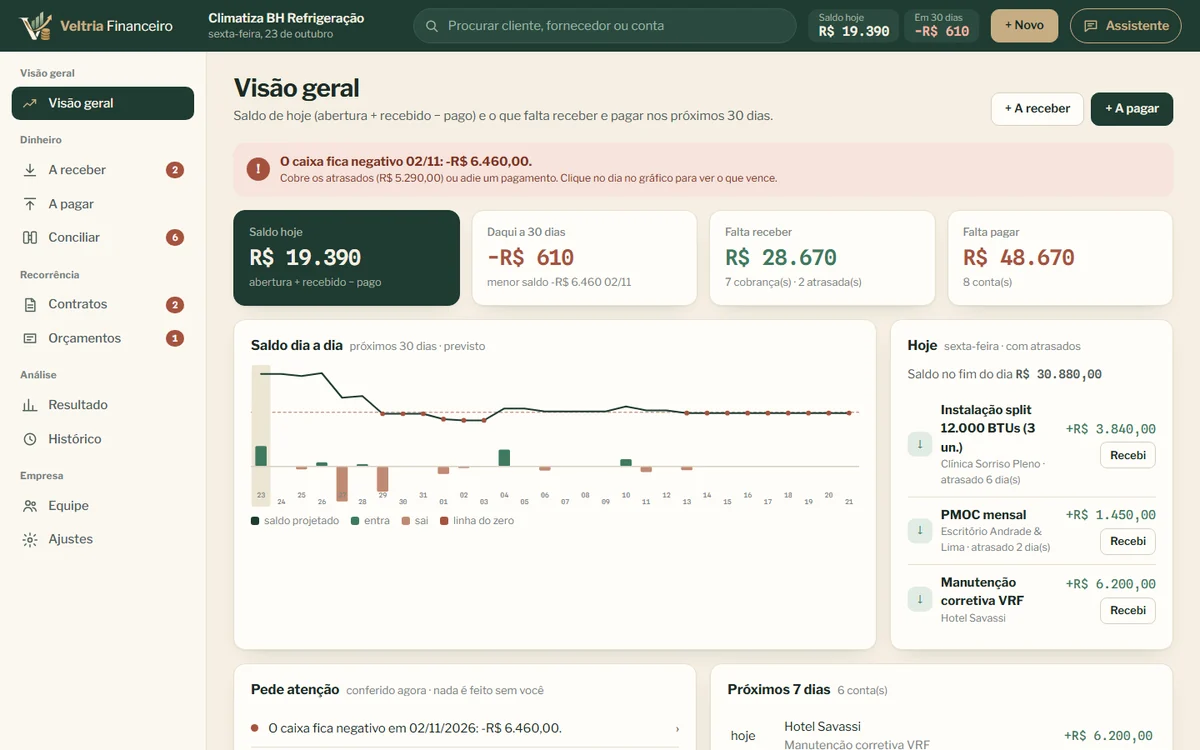
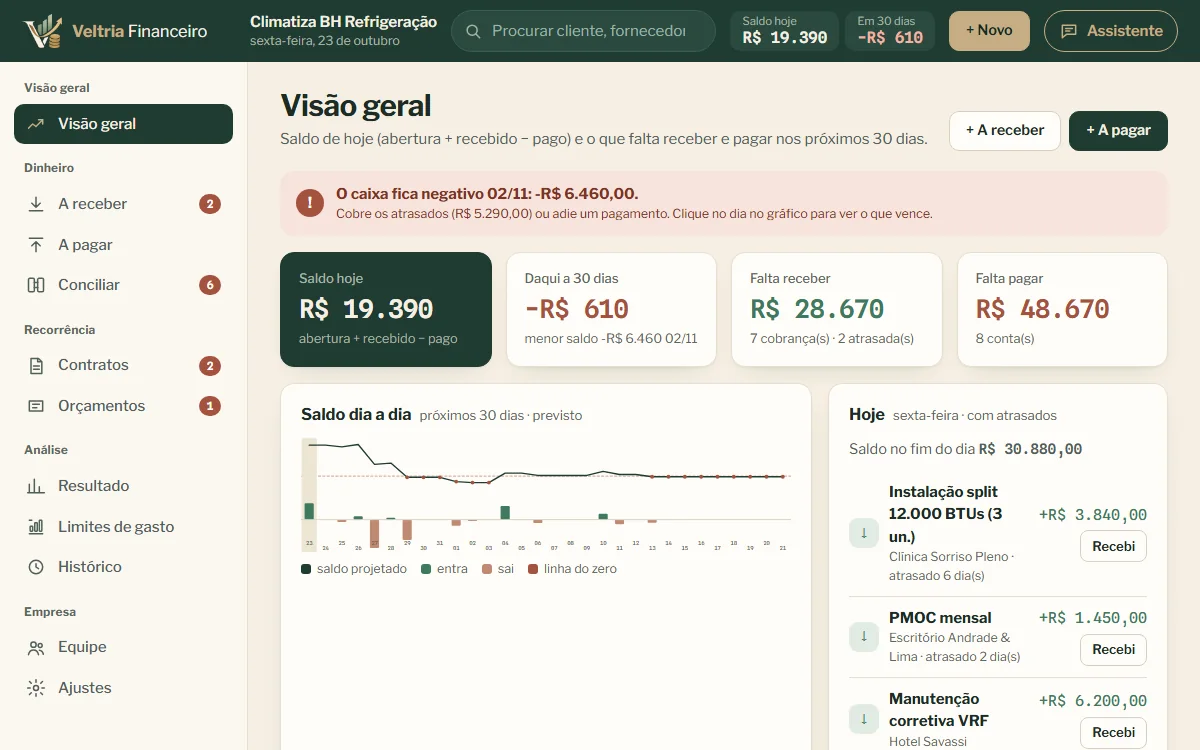
Site: fotos novas do Veltria Financeiro e textos com as funções novas

diff --git a/veltria-financeiro.html b/veltria-financeiro.html
@@ -38,7 +38,7 @@
 <script src="js/videos.js?v=10" defer></script>
 <script src="js/versao.js?v=1" defer></script>
 <script src="js/conta.js?v=9" defer></script>
-<script type="application/ld+json">[{"@context": "https://schema.org", "@type": "SoftwareApplication", "name": "Veltria Financeiro", "applicationCategory": "BusinessApplication", "operatingSystem": "Web, Android, iOS (navegador)", "description": "Contas a pagar e a receber, fluxo de caixa projetado, DRE e conciliação com o banco. E ordem de serviço que já vira receita.", "url": "https://bluerose-store.com/veltria-financeiro.html", "image": "https://bluerose-store.com/img/sistemas/financeiro-completo.webp?v=4", "offers": [{"@type": "Offer", "price": "109", "priceCurrency": "BRL", "name": "Assinatura mensal"}], "publisher": {"@type": "Organization", "name": "Blue Rose Express", "url": "https://bluerose-store.com/"}}, {"@context": "https://schema.org", "@type": "FAQPage", "mainEntity": [{"@type": "Question", "name": "Substitui o contador?", "acceptedAnswer": {"@type": "Answer", "text": "Não. É o controle gerencial da empresa. O contador continua cuidando de impostos e obrigações, e pode receber os relatórios."}}, {"@type": "Question", "name": "Importa extrato do banco?", "acceptedAnswer": {"@type": "Answer", "text": "Sim, por arquivo CSV (data; descrição; valor), que todos os bancos exportam."}}, {"@type": "Question", "name": "Tem ordem de serviço?", "acceptedAnswer": {"@type": "Answer", "text": "Sim, com orçamento, aprovação, laudo, impressão e faturamento direto para o contas a receber."}}, {"@type": "Question", "name": "Como funciona o teste de 7 dias?", "acceptedAnswer": {"@type": "Answer", "text": "Crie a conta e use por 7 dias sem pagar e sem cartão. Se gostar, assine e os dados continuam; se não, nada é cobrado."}}]}, {"@context": "https://schema.org", "@type": "BreadcrumbList", "itemListElement": [{"@type": "ListItem", "position": 1, "name": "Início", "item": "https://bluerose-store.com/"}, {"@type": "ListItem", "position": 2, "name": "Sistemas", "item": "https://bluerose-store.com/sistemas.html"}, {"@type": "ListItem", "position": 3, "name": "Veltria Financeiro", "item": "https://bluerose-store.com/veltria-financeiro.html"}]}]</script>
+<script type="application/ld+json">[{"@context": "https://schema.org", "@type": "SoftwareApplication", "name": "Veltria Financeiro", "applicationCategory": "BusinessApplication", "operatingSystem": "Web, Android, iOS (navegador)", "description": "Contas a pagar e a receber, fluxo de caixa projetado, DRE e conciliação com o banco. E ordem de serviço que já vira receita.", "url": "https://bluerose-store.com/veltria-financeiro.html", "image": "https://bluerose-store.com/img/sistemas/financeiro-completo.webp?v=5", "offers": [{"@type": "Offer", "price": "109", "priceCurrency": "BRL", "name": "Assinatura mensal"}], "publisher": {"@type": "Organization", "name": "Blue Rose Express", "url": "https://bluerose-store.com/"}}, {"@context": "https://schema.org", "@type": "FAQPage", "mainEntity": [{"@type": "Question", "name": "Substitui o contador?", "acceptedAnswer": {"@type": "Answer", "text": "Não. É o controle gerencial da empresa. O contador continua cuidando de impostos e obrigações, e pode receber os relatórios."}}, {"@type": "Question", "name": "Importa extrato do banco?", "acceptedAnswer": {"@type": "Answer", "text": "Sim, por arquivo CSV (data; descrição; valor), que todos os bancos exportam."}}, {"@type": "Question", "name": "Tem ordem de serviço?", "acceptedAnswer": {"@type": "Answer", "text": "Sim, com orçamento, aprovação, laudo, impressão e faturamento direto para o contas a receber."}}, {"@type": "Question", "name": "Como funciona o teste de 7 dias?", "acceptedAnswer": {"@type": "Answer", "text": "Crie a conta e use por 7 dias sem pagar e sem cartão. Se gostar, assine e os dados continuam; se não, nada é cobrado."}}]}, {"@context": "https://schema.org", "@type": "BreadcrumbList", "itemListElement": [{"@type": "ListItem", "position": 1, "name": "Início", "item": "https://bluerose-store.com/"}, {"@type": "ListItem", "position": 2, "name": "Sistemas", "item": "https://bluerose-store.com/sistemas.html"}, {"@type": "ListItem", "position": 3, "name": "Veltria Financeiro", "item": "https://bluerose-store.com/veltria-financeiro.html"}]}]</script>
 <link rel="stylesheet" href="css/assistente.css?v=7">
 <script src="js/assistente.js?v=20" defer></script>
 <script src="js/cookies.js?v=2" defer></script>
@@ -74,10 +74,10 @@
       <div class="np-cta"><a class="btn btn-primary" href="app/financeirocompleto/" data-teste="financeirocompleto" data-teste-nome="Veltria Financeiro Completo" data-teste-mensal="109">Testar 7 dias grátis</a><a class="btn btn-ghost" href="#versoes">Ver as 3 versões</a></div>
       <p class="np-nota">7 dias grátis em qualquer versão, sem cartão: nada é cobrado no teste. Depois, a partir de <b>R$&nbsp;59/mês</b> (Essencial), sem fidelidade.</p>
     </div>
-    <div class="np-video"><a href="demos/sistemas/financeiro-completo/" target="_blank" rel="noopener"><img src="img/sistemas/financeiro-completo.webp?v=4" width="1200" height="750" alt="Tela do Veltria Financeiro Completo"></a><p>Veltria Financeiro Completo · clique para abrir a demonstração</p></div>
+    <div class="np-video"><a href="demos/sistemas/financeiro-completo/" target="_blank" rel="noopener"><img src="img/sistemas/financeiro-completo.webp?v=5" width="1200" height="750" alt="Tela do Veltria Financeiro Completo"></a><p>Veltria Financeiro Completo · clique para abrir a demonstração</p></div>
   </section>
   <section class="np-dores wrap"><h2 class="sec-title">O que ele resolve</h2><div class="np-tres"><div><span class="np-num">01</span><p>Não saber se vai faltar dinheiro no fim do mês</p></div><div><span class="np-num">02</span><p>Clientes atrasados que ninguém cobra</p></div><div><span class="np-num">03</span><p>Extrato do banco que nunca bate com a planilha</p></div></div></section>
-  <section class="vs wrap" id="versoes"><h2 class="sec-title">Escolha a sua versão</h2><p class="vs-intro">Três sistemas diferentes, cada um feito para um tamanho de negócio. Todos com 7 dias grátis, sem cartão, Assistente IA e equipe com login de cada pessoa.</p><div class="vs-grade"><article class="vs-card"><span class="vs-chip">App para celular</span><h3 class="vs-nome">Essencial</h3><p class="vs-para">Autônomo e MEI</p><p class="vs-preco"><span>R$</span><b>59</b><span>/mês</span></p><p class="vs-ano">ou R$&nbsp;566 por ano, 20% a menos</p><ul class="vs-lista"><li><svg class="ico" aria-hidden="true"><use href="img/icones.svg#i-check"/></svg><span>Tudo que entra dividido em potes</span></li><li><svg class="ico" aria-hidden="true"><use href="img/icones.svg#i-check"/></svg><span>Cobrança com PIX e lembrete no WhatsApp</span></li><li><svg class="ico" aria-hidden="true"><use href="img/icones.svg#i-check"/></svg><span>Limite do MEI e DAS à vista</span></li><li><svg class="ico" aria-hidden="true"><use href="img/icones.svg#i-check"/></svg><span>Recibo na hora e contas fixas</span></li><li><svg class="ico" aria-hidden="true"><use href="img/icones.svg#i-check"/></svg><span>Minha assinatura dentro do app</span></li></ul><div class="vs-bts"><a class="btn btn-primary" href="app/financeiroessencial/" data-teste="financeiroessencial" data-teste-nome="Veltria Financeiro Essencial" data-teste-mensal="59">Testar 7 dias grátis</a><a class="vs-demo" href="demos/sistemas/financeiro-essencial/?celular=1" target="_blank" rel="noopener">Ver a demonstração</a></div></article><article class="vs-card vs-destaque"><span class="vs-chip">O mais escolhido</span><h3 class="vs-nome">Completo</h3><p class="vs-para">Pequena empresa de serviços</p><p class="vs-preco"><span>R$</span><b>109</b><span>/mês</span></p><p class="vs-ano">ou R$&nbsp;1.046 por ano, 20% a menos</p><ul class="vs-lista"><li><svg class="ico" aria-hidden="true"><use href="img/icones.svg#i-check"/></svg><span>Os próximos 30 dias com o saldo projetado</span></li><li><svg class="ico" aria-hidden="true"><use href="img/icones.svg#i-check"/></svg><span>A receber com régua de cobrança e a pagar</span></li><li><svg class="ico" aria-hidden="true"><use href="img/icones.svg#i-check"/></svg><span>Conciliação com o extrato do banco</span></li><li><svg class="ico" aria-hidden="true"><use href="img/icones.svg#i-check"/></svg><span>Contratos recorrentes e orçamentos</span></li><li><svg class="ico" aria-hidden="true"><use href="img/icones.svg#i-check"/></svg><span>Resultado com imposto estimado</span></li></ul><div class="vs-bts"><a class="btn btn-primary" href="app/financeirocompleto/" data-teste="financeirocompleto" data-teste-nome="Veltria Financeiro Completo" data-teste-mensal="109">Testar 7 dias grátis</a><a class="vs-demo" href="demos/sistemas/financeiro-completo/" target="_blank" rel="noopener">Ver a demonstração</a></div></article><article class="vs-card"><span class="vs-chip">Para quem quer tudo</span><h3 class="vs-nome">Avançado</h3><p class="vs-para">Grupo de empresas e BPO financeiro</p><p class="vs-preco"><span>R$</span><b>249</b><span>/mês</span></p><p class="vs-ano">ou R$&nbsp;2.390 por ano, 20% a menos</p><ul class="vs-lista"><li><svg class="ico" aria-hidden="true"><use href="img/icones.svg#i-check"/></svg><span>Caixa de 13 semanas com cenários</span></li><li><svg class="ico" aria-hidden="true"><use href="img/icones.svg#i-check"/></svg><span>Orçado x real</span></li><li><svg class="ico" aria-hidden="true"><use href="img/icones.svg#i-check"/></svg><span>Aprovação por alçada com remessa ao banco</span></li><li><svg class="ico" aria-hidden="true"><use href="img/icones.svg#i-check"/></svg><span>Conciliação por regras e fechamento do mês</span></li><li><svg class="ico" aria-hidden="true"><use href="img/icones.svg#i-check"/></svg><span>Rateio e consolidado do grupo</span></li></ul><div class="vs-bts"><a class="btn btn-primary" href="app/financeiroavancado/" data-teste="financeiroavancado" data-teste-nome="Veltria Financeiro Avançado" data-teste-mensal="249">Testar 7 dias grátis</a><a class="vs-demo" href="demos/sistemas/financeiro-avancado/" target="_blank" rel="noopener">Ver a demonstração</a></div></article></div></section>
+  <section class="vs wrap" id="versoes"><h2 class="sec-title">Escolha a sua versão</h2><p class="vs-intro">Três sistemas diferentes, cada um feito para um tamanho de negócio. Todos com 7 dias grátis, sem cartão, Assistente IA e equipe com login de cada pessoa.</p><div class="vs-grade"><article class="vs-card"><span class="vs-chip">App para celular</span><h3 class="vs-nome">Essencial</h3><p class="vs-para">Autônomo e MEI</p><p class="vs-preco"><span>R$</span><b>59</b><span>/mês</span></p><p class="vs-ano">ou R$&nbsp;566 por ano, 20% a menos</p><ul class="vs-lista"><li><svg class="ico" aria-hidden="true"><use href="img/icones.svg#i-check"/></svg><span>Tudo que entra dividido em potes</span></li><li><svg class="ico" aria-hidden="true"><use href="img/icones.svg#i-check"/></svg><span>Cobrança com PIX e lembrete no WhatsApp</span></li><li><svg class="ico" aria-hidden="true"><use href="img/icones.svg#i-check"/></svg><span>Limite do MEI e DAS à vista</span></li><li><svg class="ico" aria-hidden="true"><use href="img/icones.svg#i-check"/></svg><span>Contas fixas da semana, do mês ou do ano</span></li><li><svg class="ico" aria-hidden="true"><use href="img/icones.svg#i-check"/></svg><span>Minha assinatura dentro do app</span></li></ul><div class="vs-bts"><a class="btn btn-primary" href="app/financeiroessencial/" data-teste="financeiroessencial" data-teste-nome="Veltria Financeiro Essencial" data-teste-mensal="59">Testar 7 dias grátis</a><a class="vs-demo" href="demos/sistemas/financeiro-essencial/?celular=1" target="_blank" rel="noopener">Ver a demonstração</a></div></article><article class="vs-card vs-destaque"><span class="vs-chip">O mais escolhido</span><h3 class="vs-nome">Completo</h3><p class="vs-para">Pequena empresa de serviços</p><p class="vs-preco"><span>R$</span><b>109</b><span>/mês</span></p><p class="vs-ano">ou R$&nbsp;1.046 por ano, 20% a menos</p><ul class="vs-lista"><li><svg class="ico" aria-hidden="true"><use href="img/icones.svg#i-check"/></svg><span>Os próximos 30 dias com o saldo projetado</span></li><li><svg class="ico" aria-hidden="true"><use href="img/icones.svg#i-check"/></svg><span>A receber com régua de cobrança e a pagar</span></li><li><svg class="ico" aria-hidden="true"><use href="img/icones.svg#i-check"/></svg><span>Conciliação com o extrato do banco</span></li><li><svg class="ico" aria-hidden="true"><use href="img/icones.svg#i-check"/></svg><span>Parcelas, contratos recorrentes e orçamentos</span></li><li><svg class="ico" aria-hidden="true"><use href="img/icones.svg#i-check"/></svg><span>Limites de gasto por categoria</span></li><li><svg class="ico" aria-hidden="true"><use href="img/icones.svg#i-check"/></svg><span>Resultado com imposto estimado</span></li></ul><div class="vs-bts"><a class="btn btn-primary" href="app/financeirocompleto/" data-teste="financeirocompleto" data-teste-nome="Veltria Financeiro Completo" data-teste-mensal="109">Testar 7 dias grátis</a><a class="vs-demo" href="demos/sistemas/financeiro-completo/" target="_blank" rel="noopener">Ver a demonstração</a></div></article><article class="vs-card"><span class="vs-chip">Para quem quer tudo</span><h3 class="vs-nome">Avançado</h3><p class="vs-para">Grupo de empresas e BPO financeiro</p><p class="vs-preco"><span>R$</span><b>249</b><span>/mês</span></p><p class="vs-ano">ou R$&nbsp;2.390 por ano, 20% a menos</p><ul class="vs-lista"><li><svg class="ico" aria-hidden="true"><use href="img/icones.svg#i-check"/></svg><span>Fluxo de 13 semanas puxado das contas a pagar e a receber</span></li><li><svg class="ico" aria-hidden="true"><use href="img/icones.svg#i-check"/></svg><span>Tesouraria, cartões e empréstimos entre empresas</span></li><li><svg class="ico" aria-hidden="true"><use href="img/icones.svg#i-check"/></svg><span>Aprovação por alçada e em dois níveis</span></li><li><svg class="ico" aria-hidden="true"><use href="img/icones.svg#i-check"/></svg><span>Conciliação em lote e fechamento do mês</span></li><li><svg class="ico" aria-hidden="true"><use href="img/icones.svg#i-check"/></svg><span>DRE, centros de custo e consolidado do grupo</span></li><li><svg class="ico" aria-hidden="true"><use href="img/icones.svg#i-check"/></svg><span>Nota fiscal (XML), boleto e planilha viram contas a pagar</span></li></ul><div class="vs-bts"><a class="btn btn-primary" href="app/financeiroavancado/" data-teste="financeiroavancado" data-teste-nome="Veltria Financeiro Avançado" data-teste-mensal="249">Testar 7 dias grátis</a><a class="vs-demo" href="demos/sistemas/financeiro-avancado/" target="_blank" rel="noopener">Ver a demonstração</a></div></article></div></section>
   <section class="pl wrap" id="precos"><h2 class="sec-title">Planos e preços</h2><p class="vs-intro">Toque no preço para assinar direto pelo Mercado Pago.</p><div class="pl-caixa"><table class="pl-tabela"><thead><tr><th>Versão</th><th>Assinatura<small>Equipe sem limite, histórico de quem fez o quê e até 10 empresas</small></th></tr></thead><tbody><tr><th scope="row">Essencial<small>Autônomo e MEI</small></th><td data-plano="Assinatura"><button type="button" class="pl-preco" data-contratar="a-sis-financeiroessencial" data-mensal="59" data-nome="Veltria Financeiro Essencial"><b>R$&nbsp;59</b><span>/mês</span></button><button type="button" class="pl-ano" data-contratar="a-sis-financeiroessencial-anual" data-mensal="566" data-nome="Veltria Financeiro Essencial · anual">ou R$&nbsp;566 por ano</button></td></tr><tr><th scope="row">Completo<small>Pequena empresa de serviços</small></th><td data-plano="Assinatura"><button type="button" class="pl-preco" data-contratar="a-sis-financeirocompleto" data-mensal="109" data-nome="Veltria Financeiro Completo"><b>R$&nbsp;109</b><span>/mês</span></button><button type="button" class="pl-ano" data-contratar="a-sis-financeirocompleto-anual" data-mensal="1046" data-nome="Veltria Financeiro Completo · anual">ou R$&nbsp;1.046 por ano</button></td></tr><tr><th scope="row">Avançado<small>Grupo de empresas e BPO financeiro</small></th><td data-plano="Assinatura"><button type="button" class="pl-preco" data-contratar="a-sis-financeiroavancado" data-mensal="249" data-nome="Veltria Financeiro Avançado"><b>R$&nbsp;249</b><span>/mês</span></button><button type="button" class="pl-ano" data-contratar="a-sis-financeiroavancado-anual" data-mensal="2390" data-nome="Veltria Financeiro Avançado · anual">ou R$&nbsp;2.390 por ano</button></td></tr></tbody></table></div><ul class="pl-notas"><li><svg class="ico" aria-hidden="true"><use href="img/icones.svg#i-check"/></svg>Sem entrada e sem fidelidade</li><li><svg class="ico" aria-hidden="true"><use href="img/icones.svg#i-check"/></svg>7 dias grátis em qualquer versão</li><li><svg class="ico" aria-hidden="true"><use href="img/icones.svg#i-check"/></svg>Cancelou: usa até o fim do período pago</li><li><svg class="ico" aria-hidden="true"><use href="img/icones.svg#i-check"/></svg>Pagamento não caiu: 5 dias de tolerância, com os dados guardados</li></ul></section>
   <section class="np-comparar wrap"><h2 class="sec-title">Veltria Financeiro ou Conta Azul?</h2><p>Uma comparação honesta, com o que cada um faz melhor. <a href="veltria-financeiro-vs-conta-azul.html">Ver a comparação completa →</a></p></section>
   <section class="np-faq wrap"><h2 class="sec-title">Perguntas frequentes</h2><details><summary>Tem plano anual?</summary><p>Sim. Pagando por ano você economiza 20% em relação ao mensal. A cobrança é uma vez por ano no cartão, avisamos por e-mail antes de cada renovação e você cancela quando quiser em Minha conta.</p></details><details><summary>O que é o token de dono?</summary><p>É um código que enviamos por e-mail para quem contratou. Ele é pedido uma vez só, quando você cria a sua empresa no sistema, e depois fica salvo na sua conta. A equipe não precisa dele: cada pessoa entra pelo convite que você manda no Painel do dono.</p></details><details><summary>O que é o Painel do dono?</summary><p>Uma área que só o dono e os administradores que ele escolher veem. Ali você convida a equipe, define o cargo de cada pessoa (com as permissões já sugeridas para o cargo), ajusta o que cada uma pode ver e editar e cuida do plano.</p></details><details><summary>Quantas pessoas da equipe podem usar?</summary><p>A equipe não tem limite: cada pessoa entra com o próprio e-mail e senha. O dono escolhe o que cada pessoa pode fazer: ver e editar, só ver ou nem ver cada área, e se pode apagar registros.</p></details><details><summary>Substitui o contador?</summary><p>Não. É o controle gerencial da empresa. O contador continua cuidando de impostos e obrigações, e pode receber os relatórios.</p></details><details><summary>Importa extrato do banco?</summary><p>Sim, por arquivo CSV (data; descrição; valor), que todos os bancos exportam.</p></details><details><summary>Tem ordem de serviço?</summary><p>Sim, com orçamento, aprovação, laudo, impressão e faturamento direto para o contas a receber.</p></details><details><summary>Como funciona o teste de 7 dias?</summary><p>Você cria a conta com seu e-mail, escolhe começar em branco ou com dados de exemplo e usa o Veltria Financeiro com a sua equipe por 7 dias. Para começar, basta criar a conta: não pedimos cartão e nada é cobrado nos 7 dias. Se gostar, assine para continuar com tudo o que cadastrou. Se não cancelar, a assinatura começa sozinha e os dados continuam lá. O teste grátis vale uma vez por pessoa.</p></details><details><summary>Em quanto tempo fica pronto com a minha marca?</summary><p>O sistema fica pronto na hora: você cria a empresa em branco, sobe as suas planilhas e convida a equipe. O vídeo tutorial desta página mostra cada passo. Se ficar alguma dúvida, escreva para blueroseexpressoficial@gmail.com: respondemos em até 1 dia útil e marcamos uma ajuda.</p></details></section>

diff --git a/index.html b/index.html
@@ -132,7 +132,7 @@
             <img data-ramo="obras" src="img/sistemas/obras-completo.webp?v=3" width="1200" height="750" alt="" loading="lazy">
             <img data-ramo="juridico" src="img/sistemas/juridico-completo.webp?v=4" width="1200" height="750" alt="" loading="lazy">
             <img data-ramo="agenda" src="img/sistemas/agenda-completo.webp?v=5" width="1200" height="750" alt="" loading="lazy">
-            <img data-ramo="financeiro" src="img/sistemas/financeiro-completo.webp?v=4" width="1200" height="750" alt="" loading="lazy">
+            <img data-ramo="financeiro" src="img/sistemas/financeiro-completo.webp?v=5" width="1200" height="750" alt="" loading="lazy">
           </div>
         </div>
         <div class="ini-aviso a1"><span class="ic"><svg class="ico"><use href="img/icones.svg#i-check"/></svg></span><span><b>24 sistemas prontos</b><small>obras, advocacia, salão, oficina e mais</small></span></div>
@@ -177,7 +177,7 @@
         </ol>
       </div>
       <div class="ini-bag-palco" aria-hidden="true">
-        <div class="ini-bag-app"><img src="img/sistemas/financeiro-completo.webp?v=4" width="1200" height="750" alt="" loading="lazy"></div>
+        <div class="ini-bag-app"><img src="img/sistemas/financeiro-completo.webp?v=5" width="1200" height="750" alt="" loading="lazy"></div>
         <div class="pp planilha"><div class="bar">planilha_FINAL_v3 (2).xlsx</div><table><tr><td>Cliente</td><td>Valor</td><td class="v">#REF!</td></tr><tr><td>D. Célia</td><td>??</td><td>ver c/ João</td></tr><tr><td>Reforma</td><td>3.200</td><td class="v">ATRASOU</td></tr></table></div>
         <div class="pp postit">COBRAR O PIX!!<br>ligar pro cliente<br>até sexta</div>
         <div class="pp caderno">Agenda terça<br><s>14h Paula</s> 15h<br>pagou? acho q sim</div>
@@ -238,7 +238,7 @@
           </div>
         </article>
         <article class="prod-c reveal" data-cat="nexo" data-destaque style="--sis:#0b6fb8;--i:2">
-          <a class="prod-foto" href="veltria-financeiro.html#versoes"><img src="img/sistemas/financeiro-completo.webp?v=4" width="1200" height="750" loading="lazy" alt="Tela do Veltria Financeiro">1:36</span></a>
+          <a class="prod-foto" href="veltria-financeiro.html#versoes"><img src="img/sistemas/financeiro-completo.webp?v=5" width="1200" height="750" loading="lazy" alt="Tela do Veltria Financeiro">1:36</span></a>
           <div class="prod-txt">
             <span class="prod-tag">Caixa e ordens de serviço</span>
             <h3><a href="veltria-financeiro.html">Veltria Financeiro</a></h3>
@@ -328,31 +328,31 @@
           </div>
         </article>
         <article data-ir="veltria-financeiro.html?versao=essencial#versoes" class="prod-c reveal" data-cat="financeiro outros" hidden style="--sis:#6e9883;--i:0">
-          <a class="prod-foto" href="veltria-financeiro.html?versao=essencial#versoes"><img src="img/sistemas/financeiro-essencial.webp?v=4" width="1200" height="750" loading="lazy" alt="Tela do Veltria Financeiro Essencial"></a>
+          <a class="prod-foto" href="veltria-financeiro.html?versao=essencial#versoes"><img src="img/sistemas/financeiro-essencial.webp?v=5" width="1200" height="750" loading="lazy" alt="Tela do Veltria Financeiro Essencial"></a>
           <div class="prod-txt">
             <span class="prod-tag">App para celular · autônomo e MEI</span>
             <h3><a href="veltria-financeiro.html?versao=essencial#versoes">Veltria Financeiro Essencial</a></h3>
-            <p>Tudo que entra é dividido em potes (imposto, contas, seu salário, reserva), cobrança com PIX e lembrete no WhatsApp, limite do MEI e DAS à vista, recibo na hora.</p>
+            <p>Tudo que entra é dividido em potes (imposto, contas, seu salário, reserva), cobrança com PIX e lembrete no WhatsApp, contas fixas semanais, mensais ou anuais, limite do MEI e DAS à vista, recibo na hora.</p>
             <p class="prod-preco"><b>R$&nbsp;59</b>/mês <span>ou R$&nbsp;566 por ano</span></p>
             <div class="prod-links"><a href="app/financeiroessencial/" data-teste="financeiroessencial" data-teste-nome="Veltria Financeiro Essencial" data-teste-mensal="59">7 dias grátis <svg class="ico" aria-hidden="true"><use href="img/icones.svg#i-arrow-right"/></svg></a><a href="demos/sistemas/financeiro-essencial/?celular=1">Demonstração</a><span>Android e iPhone</span></div>
           </div>
         </article>
         <article data-ir="veltria-financeiro.html?versao=completo#versoes" class="prod-c reveal" data-cat="financeiro" hidden style="--sis:#203b32;--i:1">
-          <a class="prod-foto" href="veltria-financeiro.html?versao=completo#versoes"><img src="img/sistemas/financeiro-completo.webp?v=4" width="1200" height="750" loading="lazy" alt="Tela do Veltria Financeiro Completo"></a>
+          <a class="prod-foto" href="veltria-financeiro.html?versao=completo#versoes"><img src="img/sistemas/financeiro-completo.webp?v=5" width="1200" height="750" loading="lazy" alt="Tela do Veltria Financeiro Completo"></a>
           <div class="prod-txt">
             <span class="prod-tag">Pequena empresa de serviços</span>
             <h3><a href="veltria-financeiro.html?versao=completo#versoes">Veltria Financeiro Completo</a></h3>
-            <p>O fluxo do mês numa régua de dias com o saldo projetado, régua de cobrança com PIX, contas a pagar, conciliação do extrato, contratos recorrentes e orçamentos.</p>
+            <p>O fluxo do mês numa régua de dias com o saldo projetado, régua de cobrança com PIX, contas a pagar com parcelas, limites de gasto por categoria, conciliação do extrato, contratos recorrentes e orçamentos.</p>
             <p class="prod-preco"><b>R$&nbsp;109</b>/mês <span>ou R$&nbsp;1.046 por ano</span></p>
             <div class="prod-links"><a href="app/financeirocompleto/" data-teste="financeirocompleto" data-teste-nome="Veltria Financeiro Completo" data-teste-mensal="109">7 dias grátis <svg class="ico" aria-hidden="true"><use href="img/icones.svg#i-arrow-right"/></svg></a><a href="demos/sistemas/financeiro-completo/">Demonstração</a></div>
           </div>
         </article>
         <article data-ir="veltria-financeiro.html?versao=avancado#versoes" class="prod-c reveal" data-cat="financeiro" hidden style="--sis:#24372d;--i:2">
-          <a class="prod-foto" href="veltria-financeiro.html?versao=avancado#versoes"><img src="img/sistemas/financeiro-avancado.webp?v=4" width="1200" height="750" loading="lazy" alt="Tela do Veltria Financeiro Avançado"></a>
+          <a class="prod-foto" href="veltria-financeiro.html?versao=avancado#versoes"><img src="img/sistemas/financeiro-avancado.webp?v=5" width="1200" height="750" loading="lazy" alt="Tela do Veltria Financeiro Avançado"></a>
           <div class="prod-txt">
             <span class="prod-tag">Grupo de empresas e BPO financeiro</span>
             <h3><a href="veltria-financeiro.html?versao=avancado#versoes">Veltria Financeiro Avançado</a></h3>
-            <p>Planilha viva: caixa de 13 semanas com cenários, orçado x real, aprovação por alçada com remessa ao banco, conciliação por regras, fechamento do mês e consolidado.</p>
+            <p>Fluxo de 13 semanas puxado das contas a pagar e a receber, tesouraria com cartões e empréstimos entre empresas, aprovação por alçada e em dois níveis, conciliação em lote, DRE, centros de custo, fechamento do mês e consolidado do grupo.</p>
             <p class="prod-preco"><b>R$&nbsp;249</b>/mês <span>ou R$&nbsp;2.390 por ano</span></p>
             <div class="prod-links"><a href="app/financeiroavancado/" data-teste="financeiroavancado" data-teste-nome="Veltria Financeiro Avançado" data-teste-mensal="249">7 dias grátis <svg class="ico" aria-hidden="true"><use href="img/icones.svg#i-arrow-right"/></svg></a><a href="demos/sistemas/financeiro-avancado/">Demonstração</a></div>
           </div>

diff --git a/sistemas.html b/sistemas.html
@@ -138,7 +138,7 @@
         </div>
       </article>
       <article data-ir="veltria-financeiro.html#versoes" class="sis reveal" id="financeiro" style="--sis:#0b6fb8;--i:4">
-        <a class="sis-foto" href="veltria-financeiro.html#versoes" ><img src="img/sistemas/financeiro-completo.webp?v=4" alt="Tela do Veltria Financeiro" width="1200" height="750" loading="lazy"></a>
+        <a class="sis-foto" href="veltria-financeiro.html#versoes" ><img src="img/sistemas/financeiro-completo.webp?v=5" alt="Tela do Veltria Financeiro" width="1200" height="750" loading="lazy"></a>
         <div class="sis-corpo">
           <span class="sis-tag">Financeiro e ordens de serviço</span>
           <h2><a href="veltria-financeiro.html">Veltria Financeiro</a></h2>

diff --git a/como-funciona.html b/como-funciona.html
@@ -134,7 +134,7 @@
         </div>
         <p class="cf-preco reveal">A partir de <b>R$&nbsp;109/mês</b> · sem cartão no teste · sem fidelidade</p>
       </div>
-      <figure class="cf-tela reveal"><img src="img/sistemas/financeiro-completo.webp?v=4" width="1200" height="750" loading="lazy" alt="Tela real do Veltria Financeiro"></figure>
+      <figure class="cf-tela reveal"><img src="img/sistemas/financeiro-completo.webp?v=5" width="1200" height="750" loading="lazy" alt="Tela real do Veltria Financeiro"></figure>
     </div>
   </section>
 
